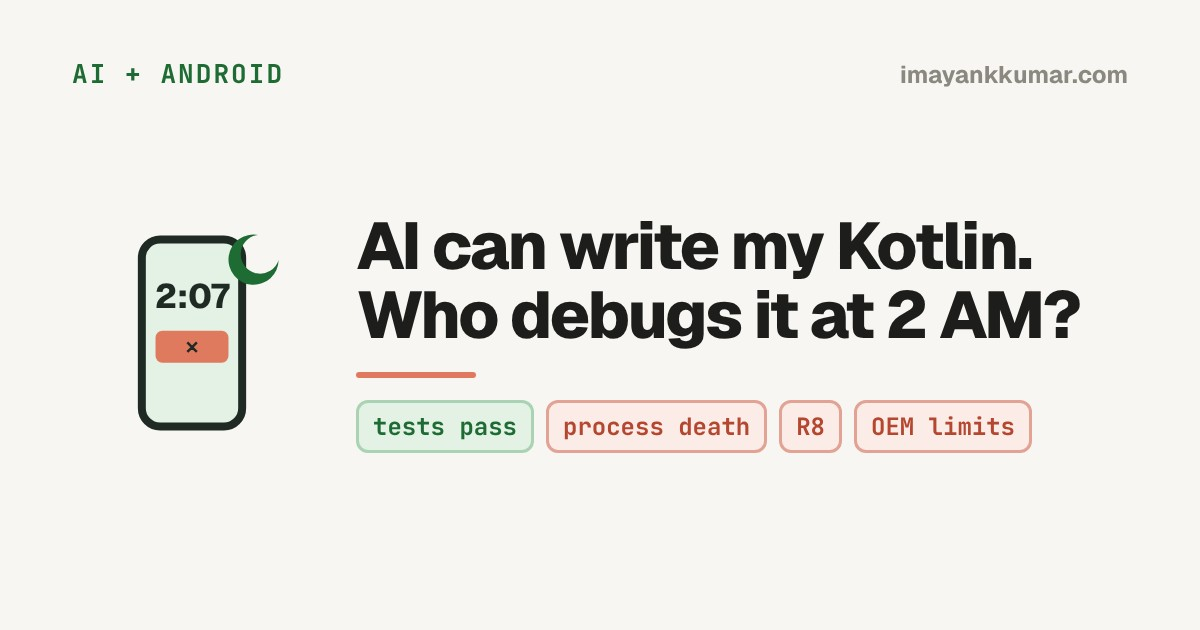
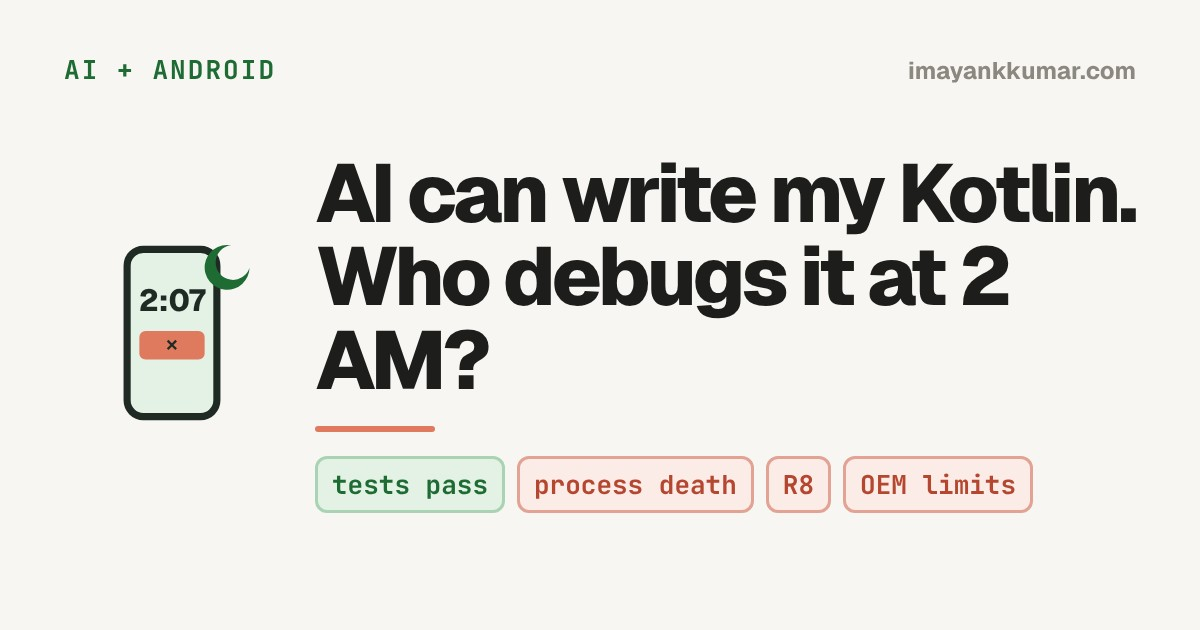
Bigger cover text, wider /blog covers, date below summary (#49)
* Bigger cover text, wider /blog covers, date below summary

* Sharper covers: 2x source images, larger widths, quality 90

* Post cards: date and reading time under the image, above the title

* Use sentence case for home and About section headings

Changed region(s): [[0.0925, 0.2413, 0.9558, 0.8143], [0.74, 0.0905, 0.9558, 0.1508], [0.0308, 0.0905, 0.2467, 0.1508]]

diff --git a/src/data/about.ts b/src/data/about.ts
@@ -18,14 +18,14 @@ export const highlights: Highlight[] = [
   {
     icon: "shield",
     tone: "blue",
-    title: "USPTO Patent",
+    title: "USPTO patent",
     body: "Co-inventor on a granted United States patent",
     link: { label: "View patent", href: patent.href, external: true },
   },
   {
     icon: "calendar",
     tone: "green",
-    title: `${profile.yearsInAndroid} Years`,
+    title: `${profile.yearsInAndroid} years`,
     body: `Of Android development, ${profile.yearsInSoftware} years in software overall`,
   },
   {
@@ -38,7 +38,7 @@ export const highlights: Highlight[] = [
   {
     icon: "sparkles",
     tone: "violet",
-    title: "AI-Assisted Engineering",
+    title: "AI-assisted engineering",
     body: "Agent workflows for Android SDK upgrades and migrations",
   },
 ]
